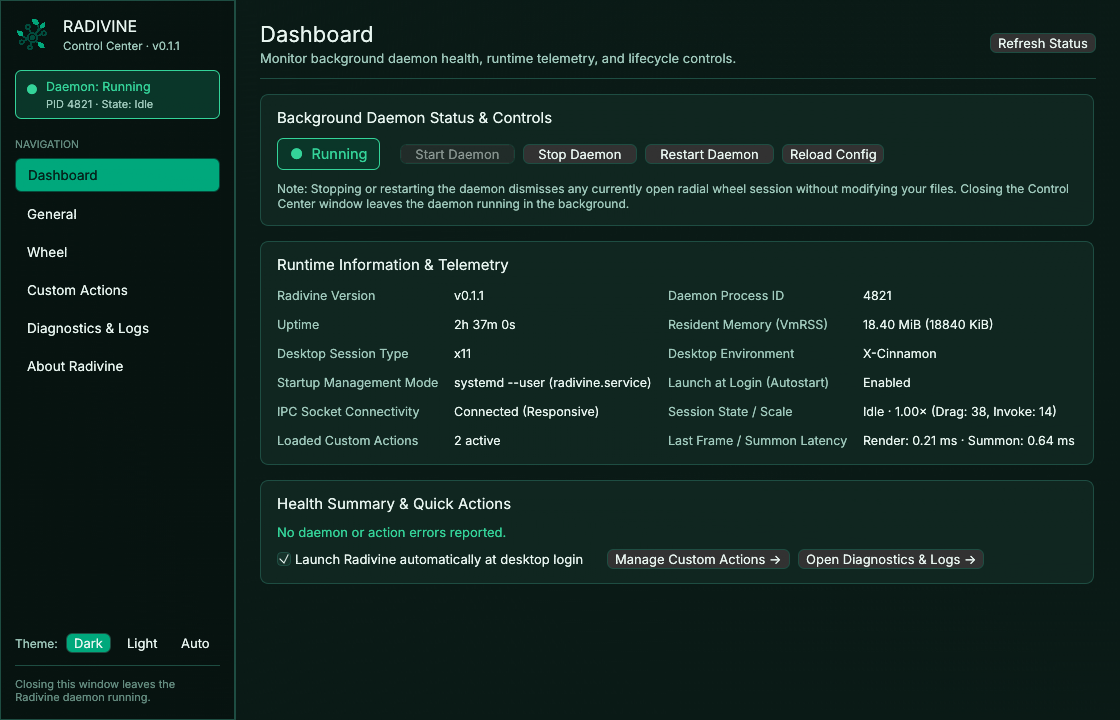
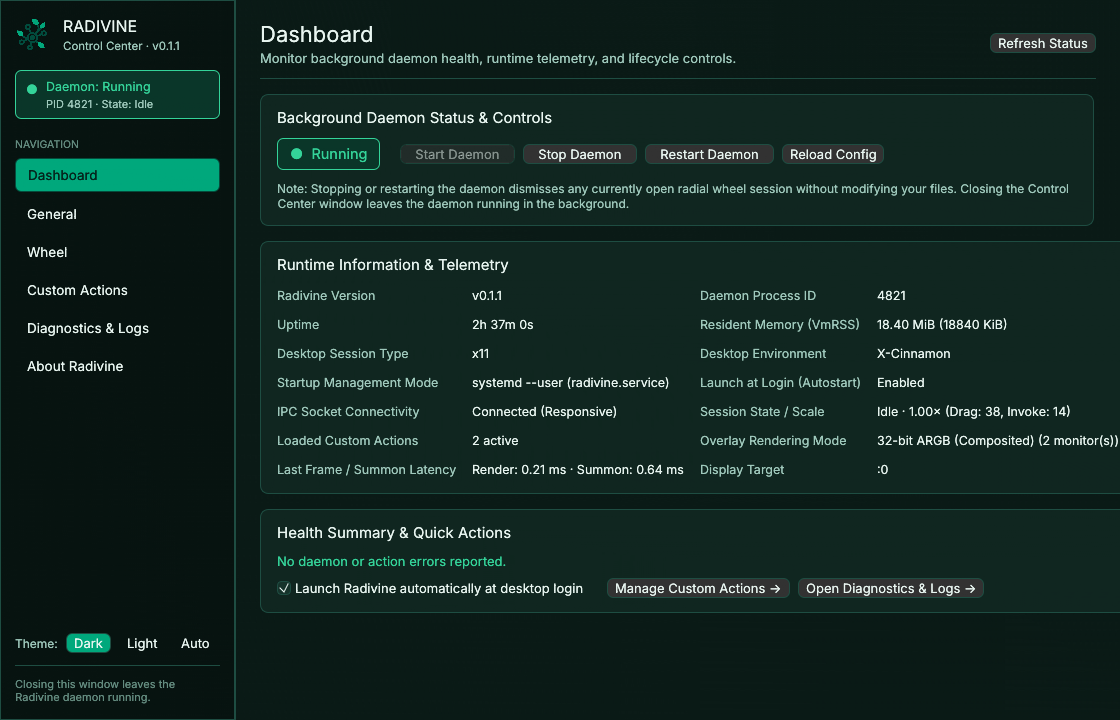
docs: document ADR-026 login autostart compositor synchronization and update v0.1.1 test report

diff --git a/docs/test-reports/v0.1.1.md b/docs/test-reports/v0.1.1.md
@@ -44,3 +44,41 @@ All requirements and acceptance criteria (`AC-0.1.1-01` through `AC-0.1.1-07`) f
   - Installed systemd unit: `/usr/lib/systemd/user/radivine.service`
   - Installed desktop launcher: `/usr/share/applications/radivine.desktop` (`Exec=radivine-control`, `desktop-file-validate` clean with `0` hints/warnings)
   - `lintian --tag-display-limit 0 target/debian/radivine_0.1.1_amd64.deb`: `0` errors, `0` warnings.
+
+---
+
+## 4. Login Autostart Rendering Regression — Root Cause & Verification (`ADR-026`)
+
+### 4.1 Forensic Root Cause Analysis (`journalctl --user -u radivine.service`)
+
+During real Linux Mint 22.3 Cinnamon logout/login testing (`2026-10-23 21:48:10`–`21:48:53`):
+1. **Logout / LightDM Greeter Handover (`21:48:10`–`21:48:15`):** When the user logged out of `:0`, `systemd --user` remained active while LightDM took ownership of `:0`. `radivine.service` (`Restart=on-failure`, `RestartSec=2`) restarted 3 times against `:0` with `Invalid MIT-MAGIC-COOKIE-1 key` until the new user login session began.
+2. **Early Login Startup Before Muffin Compositor (`21:48:17.334` vs `21:48:18`):** At `21:48:17.334`, `/etc/X11/Xsession.d/95dbus_update-activation-env` imported `DISPLAY=:0` and `XAUTHORITY` into `systemd --user`. `radivine[1810086]` connected to X11 as the first client (`overlay_window="0x00200001"`), **~700 ms before `cinnamon --replace` (Muffin, PID 1810351) started at `21:48:18`** and ~140–870 ms before `csd-xsettings` / `csd-xrandr` finished applying DPI, theme, and monitor settings (`21:48:17.475`–`21:48:18.208`).
+3. **Permanent Caching of `compositor_active = false` (`translucent = false`):**
+   - `X11Platform::connect()` called `probe_with_connection()` only once at `21:48:17.334`. Because Muffin did not yet own `_NET_WM_CM_S0`, `self.doctor.compositor_active` was permanently cached as `false` (`Support::Degraded("no compositor owns _NET_WM_CM_S0; using opaque card fallback")`).
+   - When the user summoned the radial wheel at `21:48:25` and `21:48:33` (after Muffin was already running), `prepare_overlay()` still returned `translucent: false`, activating `Renderer::set_opaque_fallback(true)` (which fills rectangular damage boxes with solid opaque `ring_fill` instead of `[0, 0, 0, 0]` transparent pixels and disables soft drop shadows) **and** applying an XShape `ShapeBounding` clip derived from `ws.input_region()` (which included invisible pointer hit-slop corridors such as `anchor_corridor_polygon` and child submenu hit corridors, rendering them as solid opaque dark wedges, and was not updated on `WheelEvent::HoverChanged`, clipping captions and hover expansions).
+4. **Why Clicking "Restart Daemon" Fixed It (`21:48:53`):**
+   - When the user clicked **Restart Daemon** in the Control Center at `21:48:53.923`, Muffin already owned `_NET_WM_CM_S0`. The restarted daemon (`radivine[1812728]`) probed `compositor_active = true` (`translucent = true`) at startup, disabling `opaque_fallback` and leaving `ShapeBounding` unclipped.
+
+### 4.2 Implemented Fixes
+
+1. **Dynamic Runtime Compositor & Display Tracking (`crates/radivine-platform/src/x11/mod.rs`, `doctor.rs`, `overlay.rs`):**
+   - Subscribed `overlay.helper_window` to `XfixesSelectionNotify` on both `_NET_WM_CM_S0` and `_XSETTINGS_S0` (plus `PROPERTY_CHANGE` on the `_XSETTINGS_S0` owner window).
+   - Added `X11Platform::refresh_compositor_state()` and `X11Platform::refresh_display_settings()`, invoked on XFixes/RandR/PropertyNotify events, inside `prepare_overlay()` before every wheel summon, and inside `sync_graphical_state()` on status queries.
+   - When `_NET_WM_CM_S0` transitions to active, `X11Platform` immediately calls `reset_bounding_region`, re-asserts `_NET_WM_BYPASS_COMPOSITOR = 2`, clears the X11 window area to transparent (`0x00000000`) on map, and sets `OverlayInfo::translucent = true`.
+   - Added a bounded startup wait (`wait_for_initial_compositor`, up to `2500 ms` default) when launched by `systemd --user` (`RADIVINE_SYSTEMD_SERVICE=1` or parent `comm == "systemd"`) and `_NET_WM_CM_S0` is initially unowned.
+2. **Session & `ShapeBounding` Consistency (`apps/radivine/src/session.rs`):**
+   - Explicitly clears any prior `ShapeBounding` clip (`set_bounding_region(None)`) whenever `translucent == true`.
+   - In genuine uncomposited environments (`!translucent`), computes `ShapeBounding` strictly from visible `scene.wheels` disks and `scene.caption` (excluding invisible pointer hit-slop corridors) and updates `ShapeBounding` on `HoverChanged`, `SubmenuOpened`, and `SubmenuClosed`.
+3. **Systemd Service Hardening & Graphical Readiness Telemetry (`packaging/radivine.service`, `apps/radivine-control`):**
+   - Updated `radivine.service` with `After=default.target graphical-session-pre.target dbus.socket`, `StartLimitIntervalSec=0`, and `Environment=RADIVINE_SYSTEMD_SERVICE=1`, plus login X11 connection retry (`connect_platform_with_login_retry`).
+   - Added backward-compatible `graphical_ready`, `compositor_active`, `translucent_overlay`, and `monitor_count` fields to `DaemonStatus` and surfaced them in the Control Center Dashboard and Diagnostics pages.
+
+### 4.3 Regression Tests (`apps/radivine/tests/v0_1_1_login_autostart_regression.rs`)
+
+| Test Case | Verified Invariant | Result |
+| :--- | :--- | :---: |
+| `login_autostart_delayed_compositor_recovers_translucency_and_clears_shape_bounding_without_restart` | Starts with `compositor_active = false`, verifies visual-only `ShapeBounding` (excluding `anchor_corridor_polygon`) and `HoverChanged` caption updates, then activates compositor and verifies byte-for-byte 1920×1080 RGBA framebuffer equality against a freshly started composited daemon without restarting | **PASS** |
+| `compositor_restart_and_delayed_dpi_and_randr_geometry_sync_dynamically` | Verifies live updates when monitor geometry (`1024×768` → `2560×1440`), `Xft.dpi` (`1.0` → `1.5`), and compositor availability change after startup or across compositor restarts | **PASS** |
+| `daemon_status_serde_backward_compatibility_and_packaged_service_unit_invariants` | Verifies legacy `DaemonStatus` JSON backward compatibility and `packaging/radivine.service` login autostart hardening directives | **PASS** |
+| `xvfb_wire_daemon_dynamically_recovers_when_compositor_and_dpi_initialize_after_startup` | Optional disposable `Xvfb` wire-protocol test verifying `_NET_WM_CM_S0` selection handoff, `ShapeGetRectangles`, `GetImage`, and `RESOURCE_MANAGER` DPI updates | **PASS** |

diff --git a/docs/DECISIONS.md b/docs/DECISIONS.md
@@ -176,3 +176,12 @@ To change a decision: add a new ADR that supersedes the old one; never silently 
 2. **Systemd User Service Primary Lifecycle (`/usr/lib/systemd/user/radivine.service`):** Install `radivine.service` in `/usr/lib/systemd/user/` (disabled by default on package install) with `WantedBy=default.target` so `systemctl --user enable radivine.service` starts reliably on Cinnamon login. Import the graphical session environment (`DISPLAY`, `XAUTHORITY`, `WAYLAND_DISPLAY`, `XDG_SESSION_TYPE`, `XDG_CURRENT_DESKTOP`, `DBUS_SESSION_BUS_ADDRESS`) before interactive `start`/`restart`, and verify actual IPC socket health (`radivine.sock`) independently of systemd unit state. When `systemd --user` is unavailable, fall back to a detached `process_group(0)` daemon writing to `~/.local/state/radivine/daemon.log` and XDG autostart. Detect and safely resolve duplicate XDG + systemd autostart conflicts without silently deleting user files.
 3. **Format-Preserving Atomic Persistence (`toml_edit`):** Edit `config.toml` and `actions.toml` via `toml_edit::DocumentMut` to preserve comments and unknown keys, validate the complete document before writing, detect external modification conflicts, write atomically via a same-directory `.tmp` file + `rename`, and trigger non-disruptive hot reload (`IpcRequest::Reload`).
 4. **System Tray Deferral:** Defer `StatusNotifierItem` / `libappindicator3` system tray integration in `v0.1.1` to avoid introducing a competing GTK3 `glib::MainLoop` alongside `winit`/`eframe` or native C shared-library dependencies; provide explicit `"Close Control Center (daemon keeps running)"` vs `"Stop Daemon"` controls in `radivine-control` ([`CONTROL_CENTER_DESIGN.md`](CONTROL_CENTER_DESIGN.md)).
+
+## ADR-026 — Login Autostart Graphical Readiness & Dynamic X11 Compositor/Display Synchronization (`v0.1.1`)
+**Status:** Accepted (`v0.1.1`)
+**Context:** During real Linux Mint 22.3 Cinnamon logout/login testing with `radivine.service` enabled (`WantedBy=default.target`), `/etc/X11/Xsession.d/95dbus_update-activation-env` imports `DISPLAY` and `XAUTHORITY` into `systemd --user` ~700 ms before `cinnamon --replace` (Muffin, the window manager and X11 compositor) claims `_NET_WM_CM_S0` and ~140–870 ms before `csd-xsettings` and `csd-xrandr` finish applying DPI/theme/monitor properties. Previously, `X11Platform::connect()` probed `_NET_WM_CM_S0` only once at process startup, permanently caching `compositor_active = false` (`translucent = false`) for the lifetime of the login session. When the user later summoned the radial wheel, `SessionController` rendered with `opaque_fallback = true` (filling rectangular damage boxes with solid opaque `ring_fill`) and applied an XShape `ShapeBounding` clip derived from `ws.input_region()` (which included invisible pointer hit-slop corridors and was not updated on `HoverChanged`), causing severe visual distortion until the user manually restarted the daemon after Muffin was running. Additionally, during logout while LightDM briefly owned `:0`, `radivine.service` (`Restart=on-failure`) could exhaust default systemd burst start limits.
+**Decision:**
+1. **Dynamic Runtime Compositor & Display Tracking (`X11Platform`):** Subscribe `overlay.helper_window` to `XfixesSelectionNotify` for both `_NET_WM_CM_S0` and `_XSETTINGS_S0` (plus `PROPERTY_CHANGE` on the `_XSETTINGS_S0` owner window), and re-verify `refresh_compositor_state()` and `refresh_display_settings()` inside `prepare_overlay()` before every wheel summon and in `sync_graphical_state()` on status queries. Whenever `_NET_WM_CM_S0` transitions from unowned to owned, immediately reset `ShapeBounding` to unclipped, re-assert `_NET_WM_BYPASS_COMPOSITOR = 2`, clear the X11 window area to transparent (`0x00000000`) on map, and switch `OverlayInfo::translucent` to `true` without requiring a daemon restart.
+2. **Bounded Startup Compositor Readiness Wait & Login Retry:** When launched by `systemd --user` (`RADIVINE_SYSTEMD_SERVICE=1` or parent `comm == "systemd"` on a real display), retry transient X11 connection failures during display-manager handover and perform a bounded poll (up to `2500 ms` default, `25 ms` interval) for `_NET_WM_CM_S0` ownership before finalizing the initial `DoctorReport`.
+3. **Visual-Only `ShapeBounding` in True No-Compositor Environments:** When running in a genuine uncomposited X11 environment (`!translucent`), compute `ShapeBounding` strictly from visible `scene.wheels` disks and `scene.caption` (never from invisible pointer hit-slop corridors in `ws.input_region()`), update `ShapeBounding` on `HoverChanged` / `SubmenuOpened` / `SubmenuClosed`, and explicitly clear `ShapeBounding` (`set_bounding_region(None)`) whenever `translucent` becomes `true`.
+4. **Systemd Service Hardening & Graphical Readiness Telemetry:** Add `After=default.target graphical-session-pre.target dbus.socket`, `StartLimitIntervalSec=0`, and `Environment=RADIVINE_SYSTEMD_SERVICE=1` to `radivine.service`, and expose `graphical_ready`, `compositor_active`, `translucent_overlay`, and `monitor_count` in `DaemonStatus` and the Control Center Dashboard/Diagnostics views.

diff --git a/docs/CONTROL_CENTER_DESIGN.md b/docs/CONTROL_CENTER_DESIGN.md
@@ -79,14 +79,23 @@ Empirical inspection of Linux Mint 22.x (Cinnamon `X-Cinnamon` on X11) revealed 
 
 To work reliably across Cinnamon, XFCE, MATE, GNOME, and KDE:
 - The Debian package installs the canonical user service unit at `/usr/lib/systemd/user/radivine.service` (without auto-enabling it during `apt install`).
-- `[Unit]` orders `After=default.target graphical-session-pre.target` with `StartLimitIntervalSec=30` and `StartLimitBurst=5` (and omits `PartOf=graphical-session.target` so inactive targets do not block startup).
-- `[Service]` runs `ExecStart=/usr/bin/radivine daemon`, `ExecReload=/usr/bin/radivine reload`, `ExecStop=/usr/bin/radivine quit`, `Restart=on-failure`, `RestartSec=2`, and `SuccessExitStatus=0 143`.
+- `[Unit]` orders `After=default.target graphical-session-pre.target dbus.socket` with `StartLimitIntervalSec=0` (preventing systemd burst start-limit lockout when LightDM briefly holds `:0` across user logout/login transitions) and omits `PartOf=graphical-session.target` so inactive targets do not block startup.
+- `[Service]` sets `Environment=RADIVINE_SYSTEMD_SERVICE=1`, `ExecStart=/usr/bin/radivine daemon`, `ExecReload=/usr/bin/radivine reload`, `ExecStop=/usr/bin/radivine quit`, `Restart=on-failure`, `RestartSec=2`, and `SuccessExitStatus=0 143`.
 - `[Install]` specifies `WantedBy=default.target` so `systemctl --user enable radivine.service` activates on login in Cinnamon as well as standard systemd user sessions.
 - Before `ServiceController` executes `systemctl --user start` or `restart` from an interactive desktop session, it runs:
   ```text
   systemctl --user import-environment DISPLAY XAUTHORITY WAYLAND_DISPLAY XDG_SESSION_TYPE XDG_CURRENT_DESKTOP DBUS_SESSION_BUS_ADDRESS
   ```
   ensuring the daemon receives the live graphical display environment without hardcoding `DISPLAY` or `XAUTHORITY`.
+
+### 3.1.1 Login Autostart Graphical Readiness & Dynamic Compositor Synchronization (`ADR-026`)
+
+During Linux Mint Cinnamon login, `/etc/X11/Xsession.d/95dbus_update-activation-env` imports `DISPLAY` and `XAUTHORITY` into `systemd --user` ~700 ms before `cinnamon --replace` (Muffin, the window manager and X11 compositor) claims `_NET_WM_CM_S0` and ~140–870 ms before `csd-xsettings` and `csd-xrandr` finish applying DPI/theme/monitor properties. To guarantee identical rendering whether `radivine` starts during early login or via an interactive restart:
+1. **Bounded Initial Compositor Wait & Login Retry:** When launched by `systemd --user` (`RADIVINE_SYSTEMD_SERVICE=1` or parent `comm == "systemd"`), `radivine` retries transient X11 connection errors during display-manager handover and performs a bounded wait (up to `2500 ms` default, `25 ms` poll) for `_NET_WM_CM_S0` ownership before finalizing its initial capability probe.
+2. **Dynamic Runtime `_NET_WM_CM_S0`, `_XSETTINGS_S0`, and `RandR` Tracking:** `X11Platform` subscribes `overlay.helper_window` to `XfixesSelectionNotify` for both `_NET_WM_CM_S0` and `_XSETTINGS_S0` (plus `PROPERTY_CHANGE` on the `_XSETTINGS_S0` owner window) and re-verifies compositor ownership, monitor geometry, `Xft.dpi`, and reduced-motion settings inside `prepare_overlay()` before every wheel summon and in `sync_graphical_state()` on status queries.
+3. **Seamless Transition to 32-Bit ARGB Translucency:** Whenever `_NET_WM_CM_S0` becomes owned, `X11Platform` immediately resets any XShape `ShapeBounding` clip to unclipped (`reset_bounding_region`), re-asserts `_NET_WM_BYPASS_COMPOSITOR = 2`, clears the X11 overlay window to transparent (`0x00000000`) on map, and switches `OverlayInfo::translucent` to `true` (`Renderer::set_opaque_fallback(false)`).
+4. **Visual-Only `ShapeBounding` in True Uncomposited Sessions:** When no compositor is active (`!translucent`), `SessionController::sync_input_region()` clips `ShapeBounding` strictly to visible `scene.wheels` disks and `scene.caption` (never to invisible pointer hit-slop corridors) and updates `ShapeBounding` on `HoverChanged` / `SubmenuOpened` / `SubmenuClosed`.
+5. **Graphical Readiness Telemetry:** `DaemonStatus` exposes `graphical_ready`, `compositor_active`, `translucent_overlay`, and `monitor_count`, which the Control Center surfaces in the Dashboard (`Overlay Rendering Mode`) and Diagnostics pages.
 
 ### 3.2 Differentiating Service State from Daemon IPC Health
 
